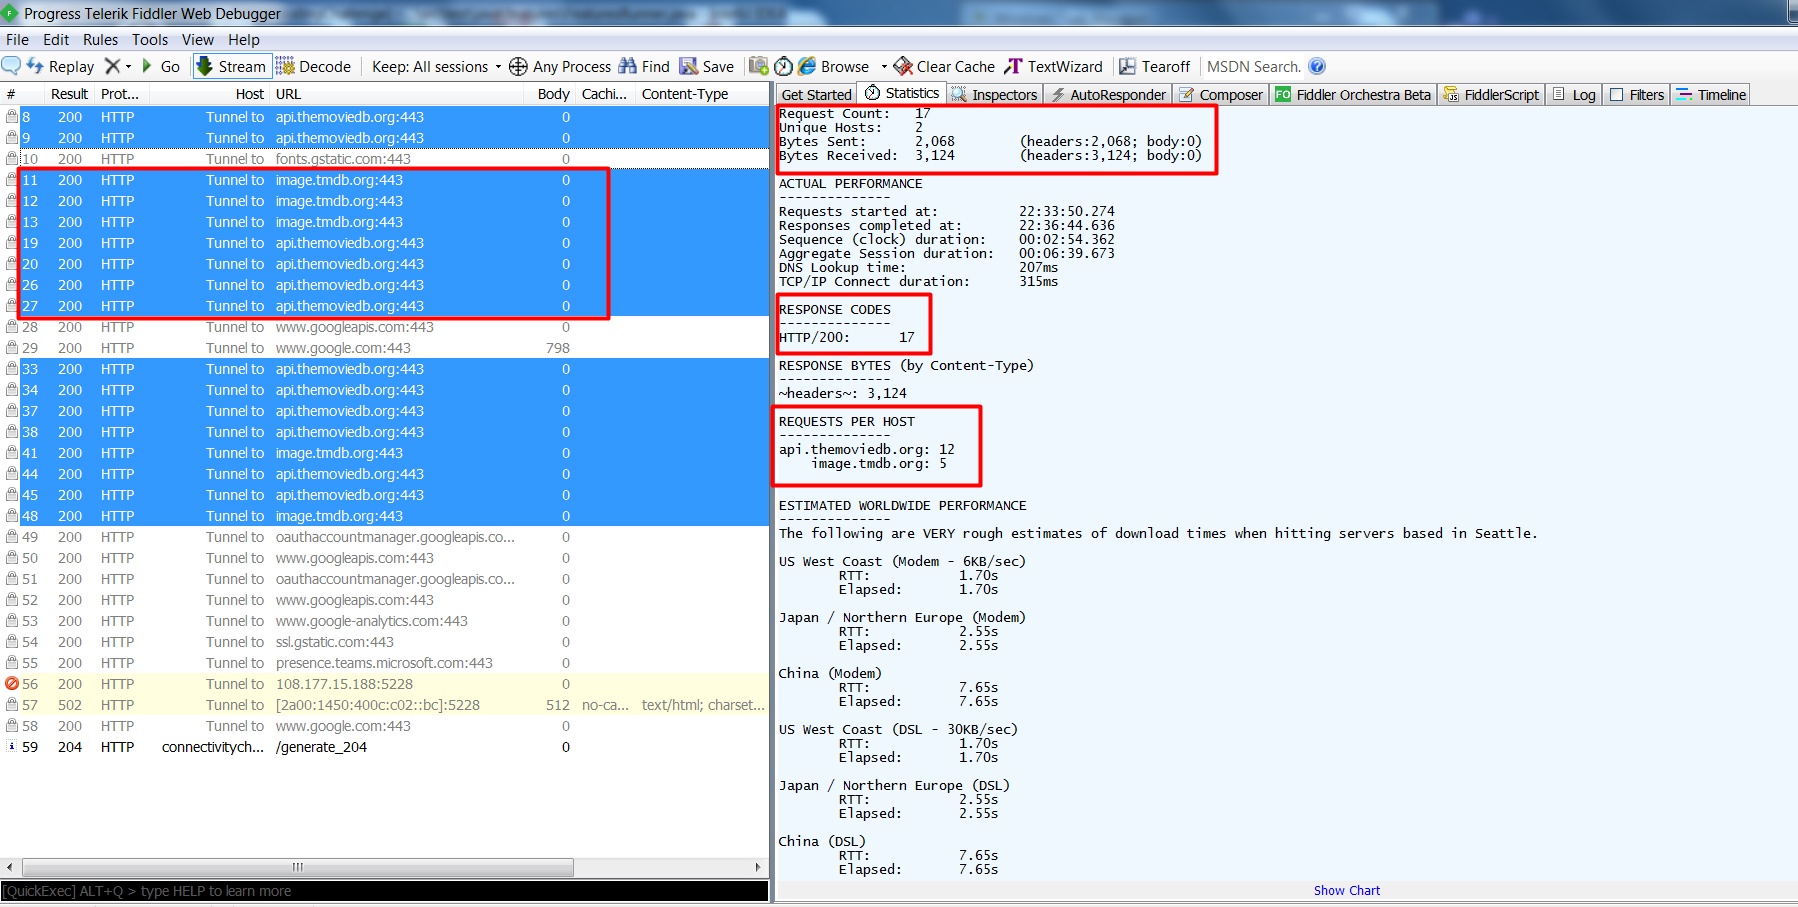
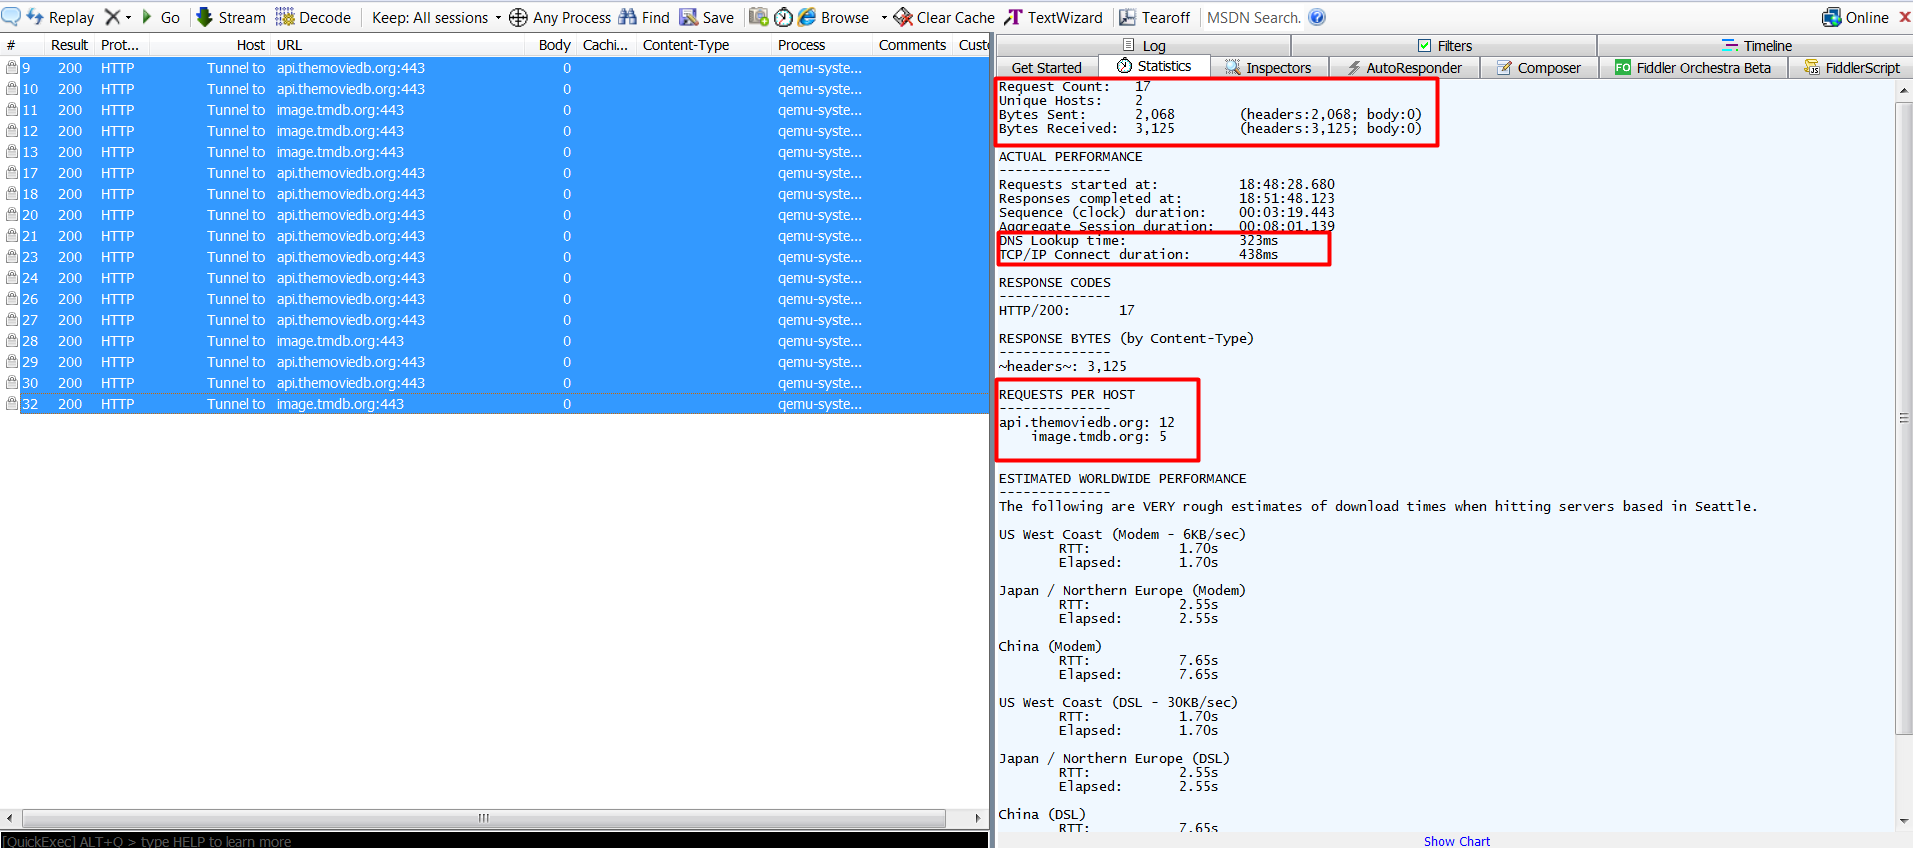
Added Fiddler Trace log and updated images of README.md file

diff --git a/README.md b/README.md
@@ -79,7 +79,10 @@ Result will be generated in Result folder of project location
 <img src="img/Network_traffic_with_Full_network.png">
 
 - Fiddler Fiddler tracing tools to trace the app network traffic with "GSM network upload and download speeds"
-<img src="img/Network_traffic_with_GSM_network.png">
+<img src="img/Network_traffic_with_Poor_network.png">
+
+- Transaction level performance difference with network speed
+<img src="img/Transation_Performance_Difference.png">
 
 ## 6. Items open for discussion
 
